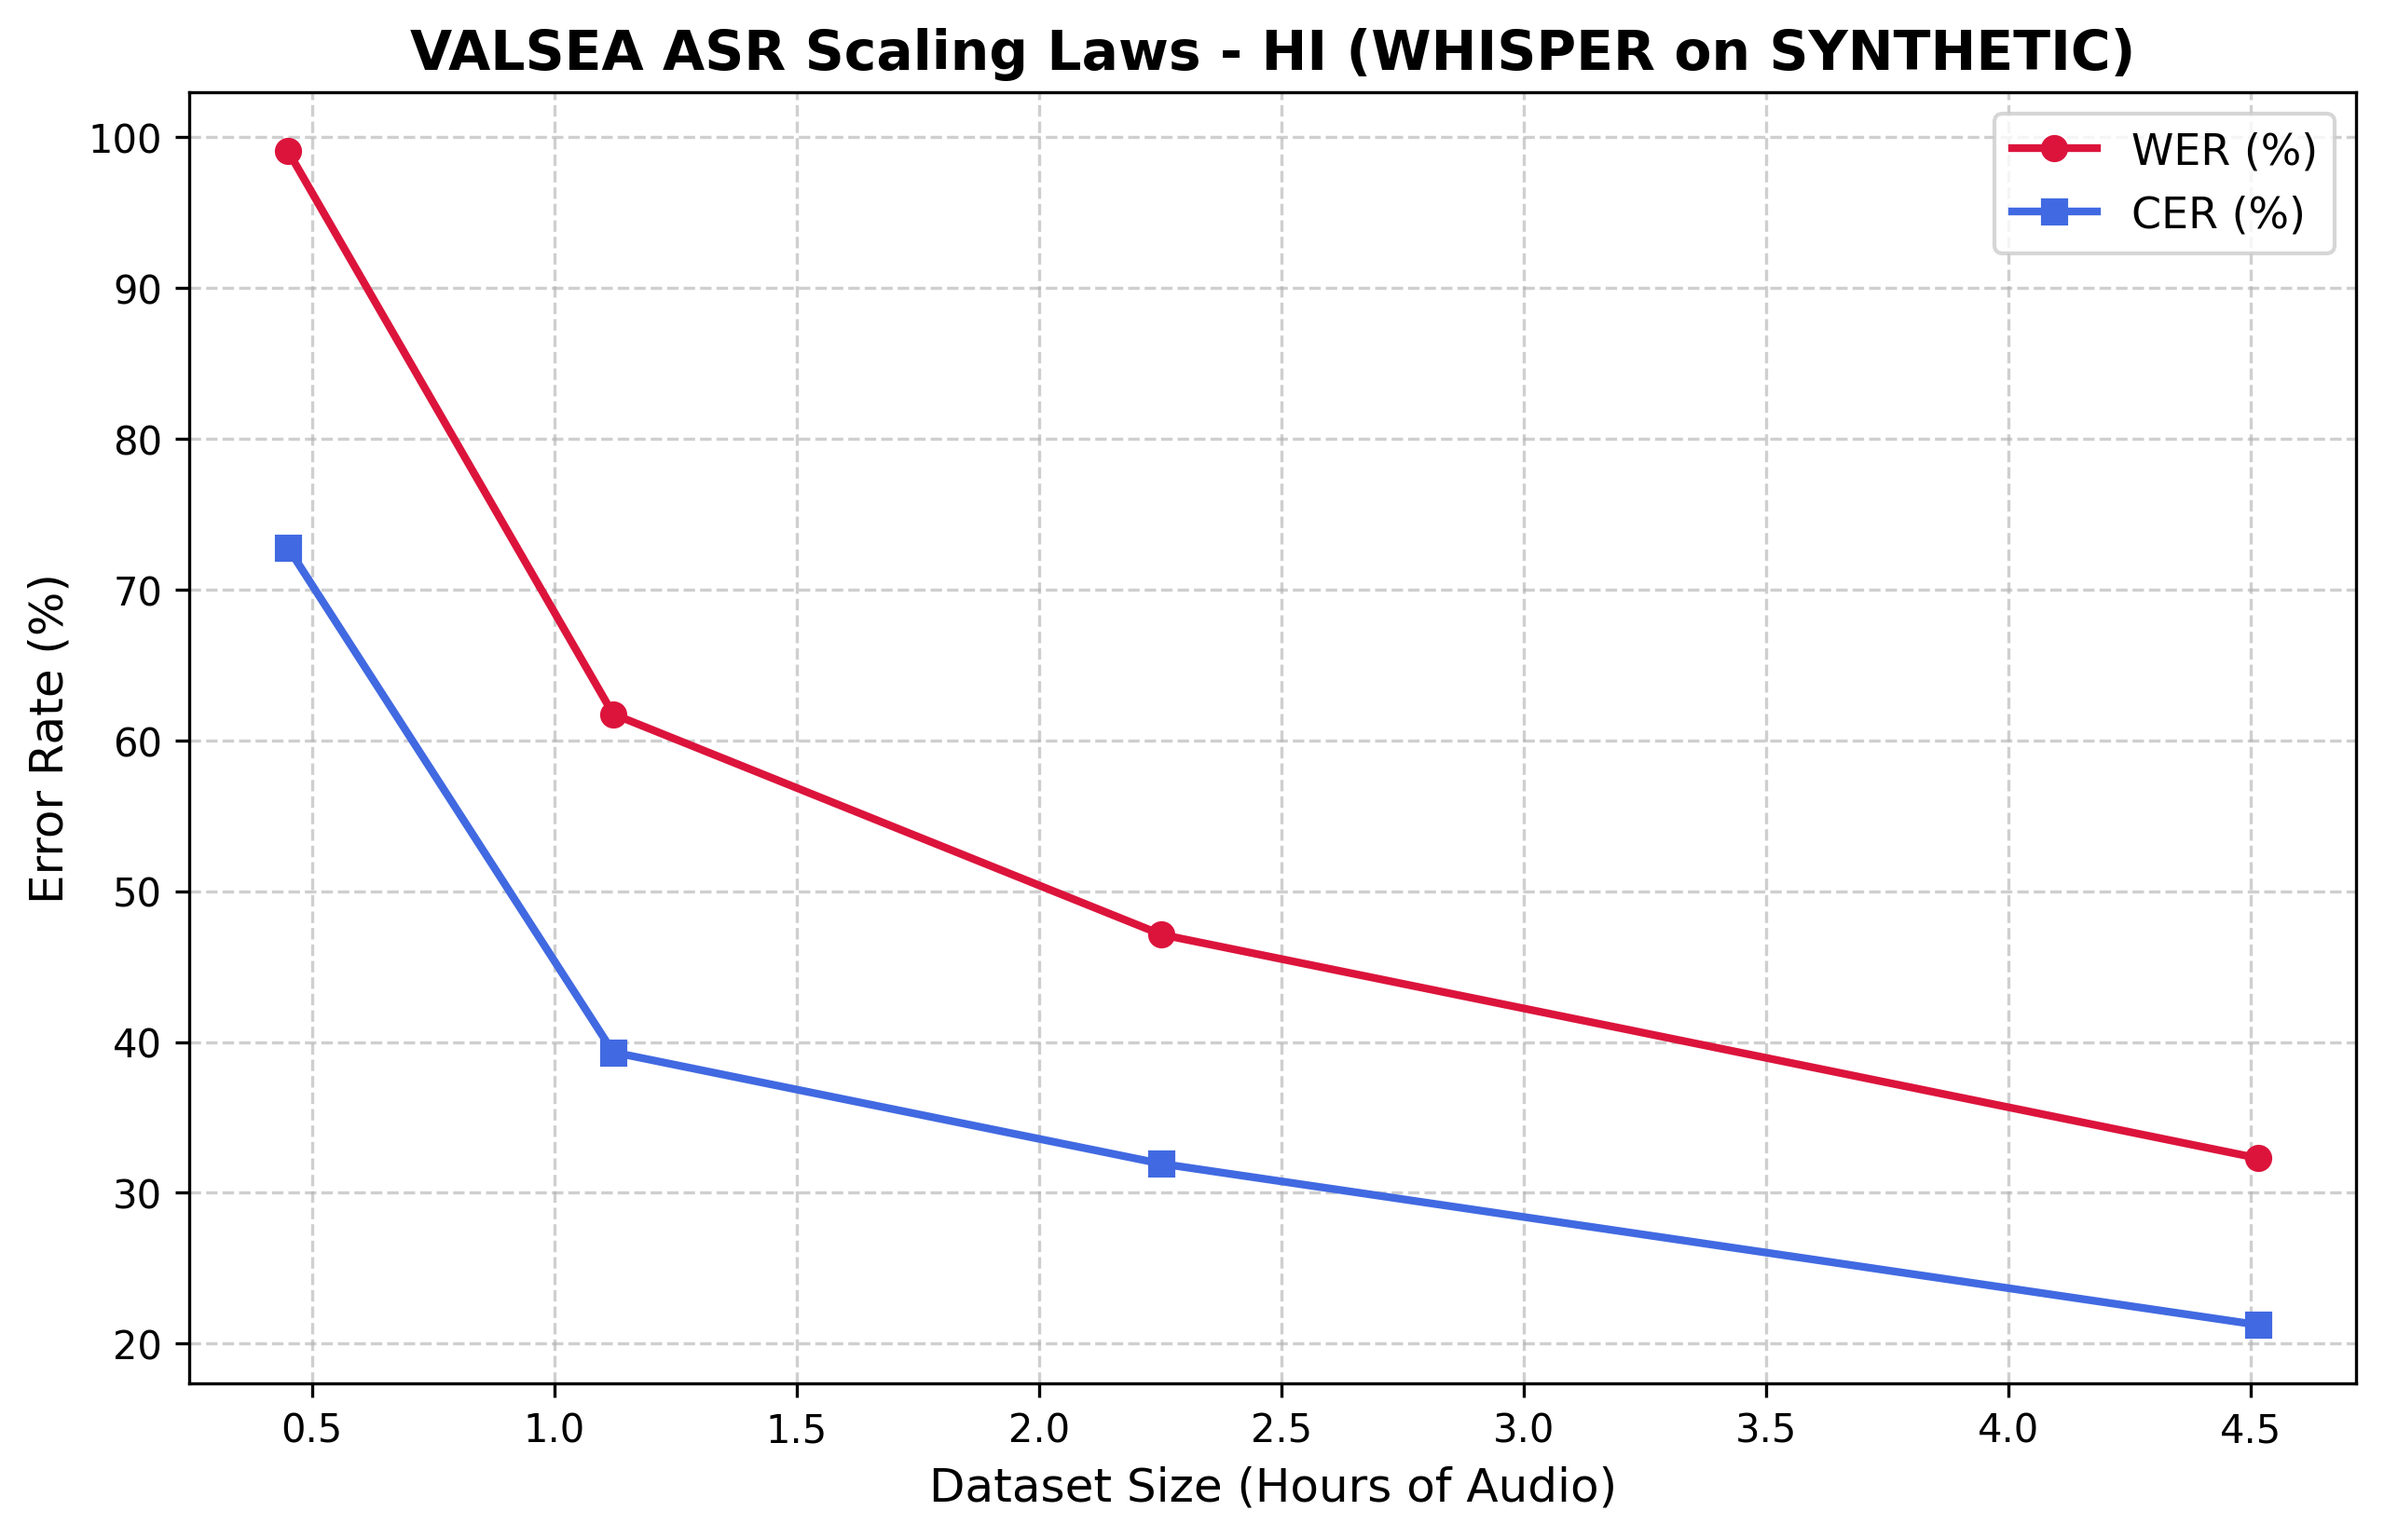
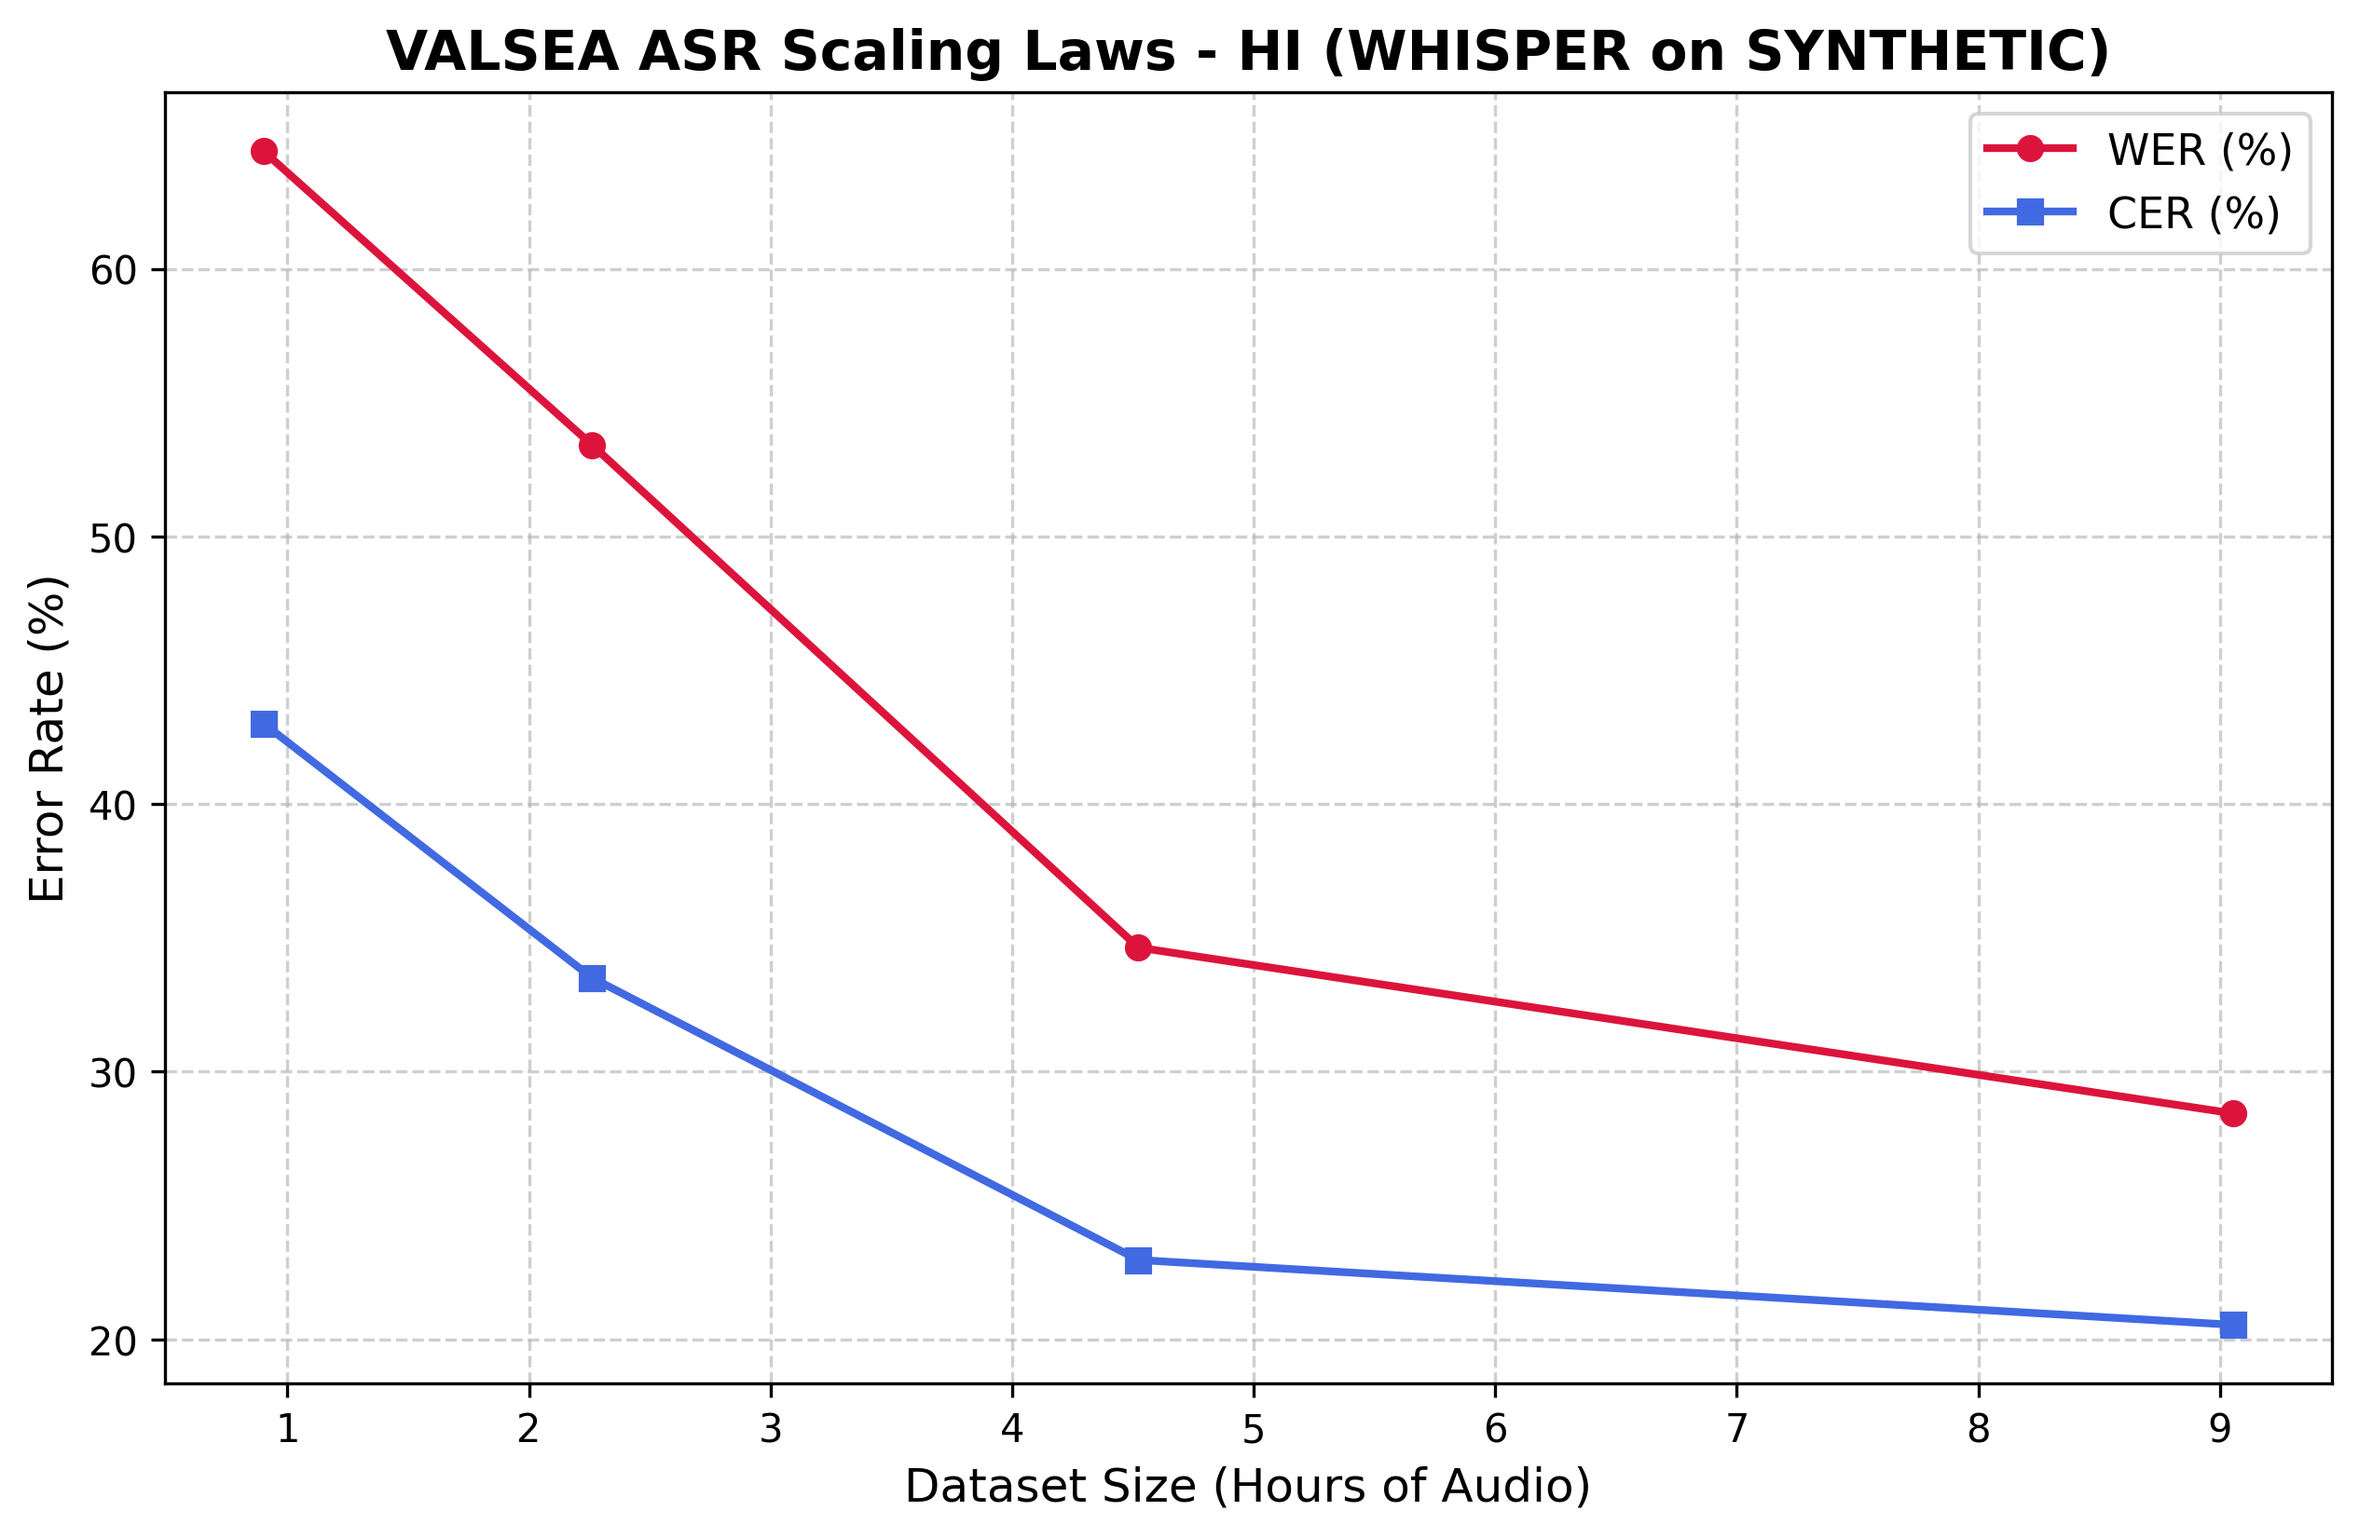
fix: resolve FP16 grad scaling crash and update to 10-hour scaling sweep results

diff --git a/benchmark/train.py b/benchmark/train.py
@@ -84,13 +84,13 @@ def train_asr(cfg: TrainConfig):
         model = Qwen2AudioForConditionalGeneration.from_pretrained(
             cfg.model_name,
             device_map=device_map,
-            torch_dtype=torch.float16 if (cfg.fp16 and torch.cuda.is_available()) else torch.float32
+            torch_dtype=torch.float32
         )
     else:  # whisper
         model = WhisperForConditionalGeneration.from_pretrained(
             cfg.model_name,
             device_map=device_map,
-            torch_dtype=torch.float16 if (cfg.fp16 and torch.cuda.is_available()) else torch.float32
+            torch_dtype=torch.float32
         )
         # Configure model generation configs
         model.config.forced_decoder_ids = None
